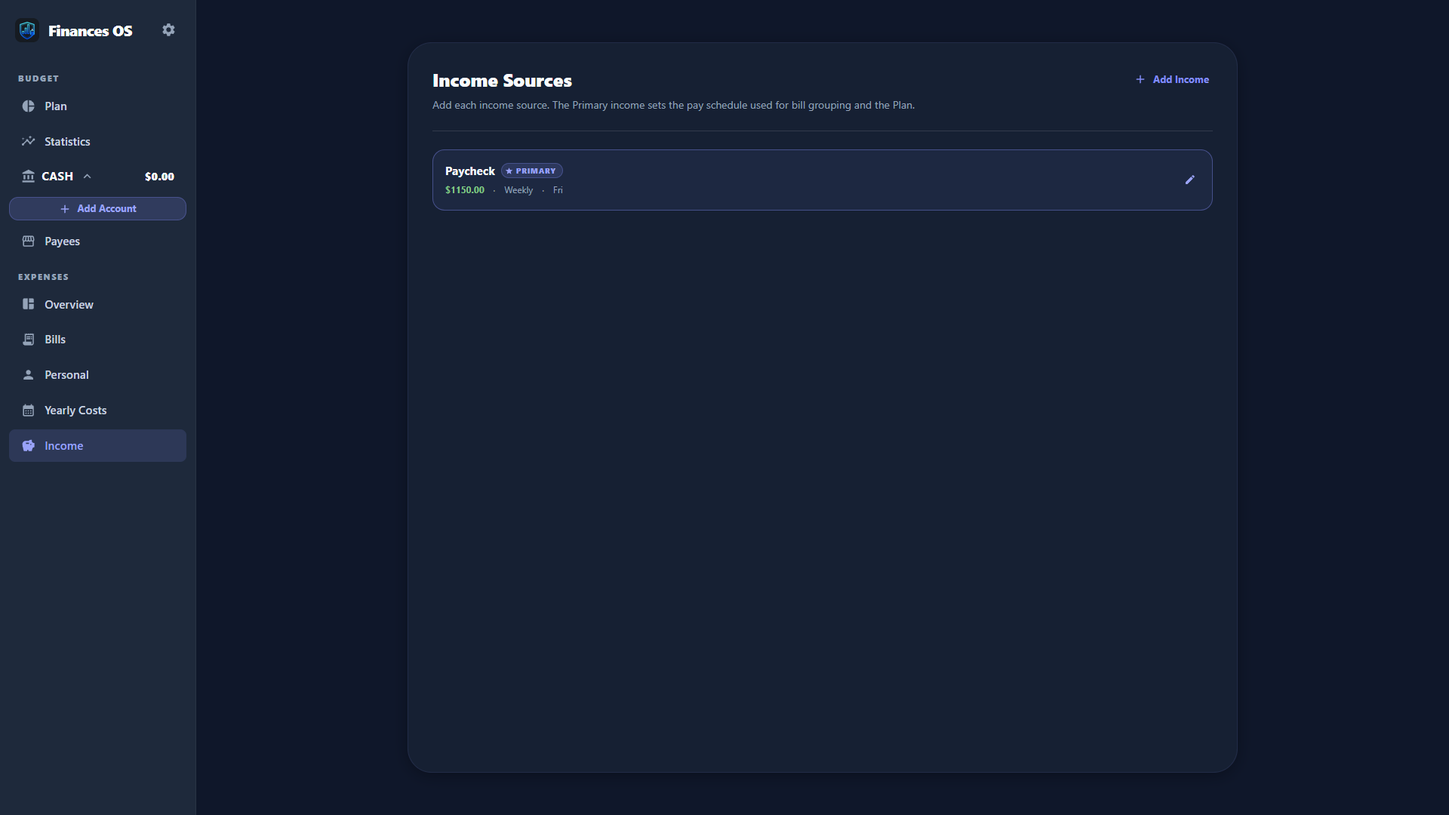
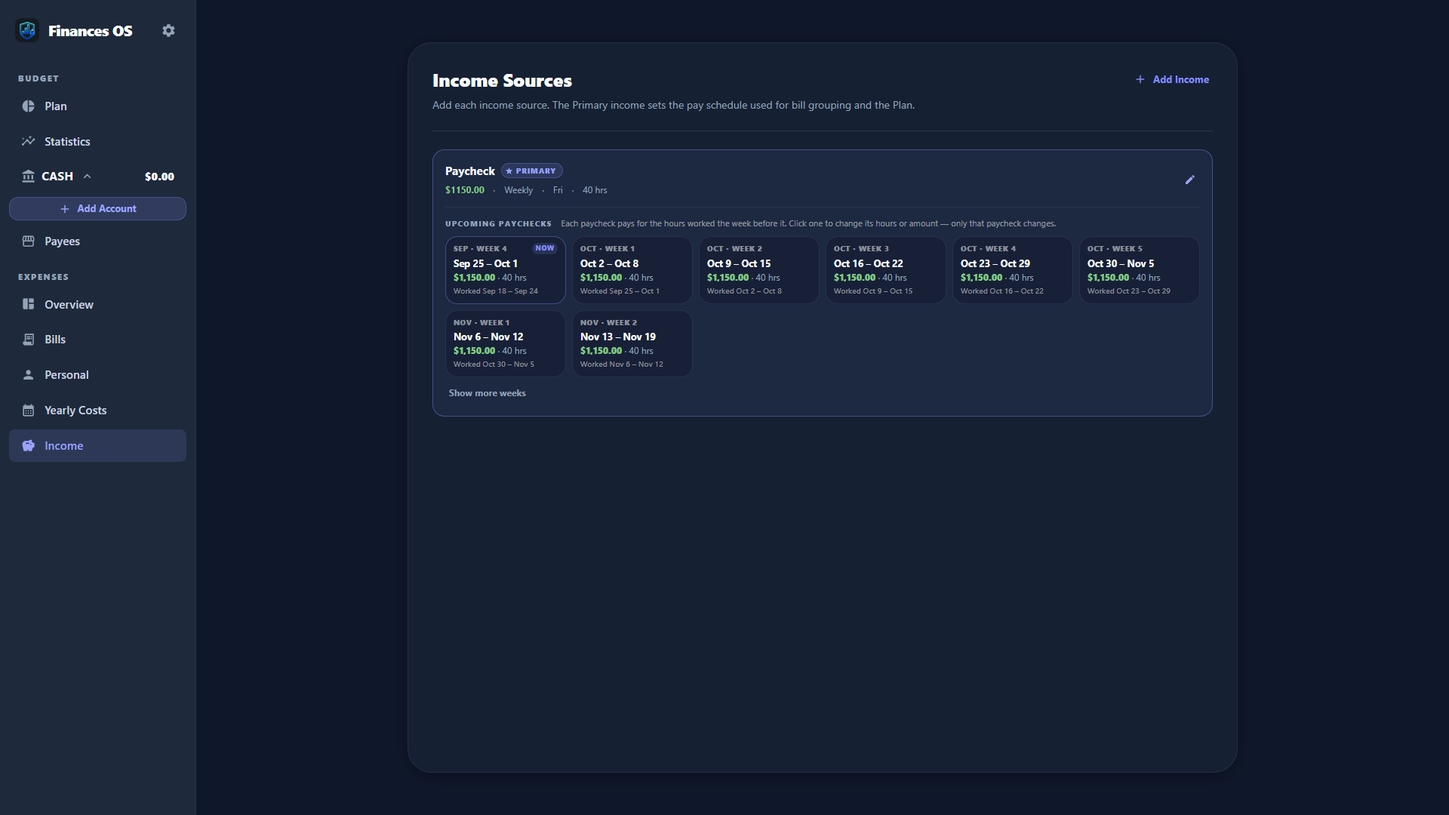
Tour: regenerate for 0.6.0 (a short week, the plan that updates itself)
The picture tour had not been regenerated since Oct 30, before Optimize
became automatic (0.5.0) and before per-week paychecks (0.6.0).

- New step 11, "A short week": Alex sets 32 hours on the Nov 13 paycheck
  (worked Nov 6 - Nov 12). Three pictures: the dialog with the pay-stub
  breakdown, the Income page with that paycheck marked Custom, and
  November's Overview. The income form in step 2 now shows the optional
  pay-stub numbers that make it work.
- Step 6 is "The Overview plans itself". The "before optimizing" picture
  is gone: the app no longer has that state. The sandbox step no longer
  says Alex clicks Optimize.
- A sixth highlight card, "Hours that change"; the Optimize card is
  retitled.
- 14 steps, 30 pictures. Dropping one picture and adding three shifted
  the sequential numbers, so every reference in docs/index.html and the
  README image is updated.

tour.mjs no longer clicks Optimize or waits for the old alert: waitForPlan()
polls the API until the saved baseline matches the current inputs and the
horizon's last month has rows. Everything in the tour is still made up.
No version bump: nothing in the app changed.

diff --git a/docs/index.html b/docs/index.html
@@ -7,7 +7,7 @@
 <meta name="description" content="A step-by-step picture tour of Finances OS: plan every paycheck against every bill, starting from an empty app.">
 <meta property="og:title" content="Finances OS Tour">
 <meta property="og:description" content="Plan every paycheck against every bill. A step-by-step picture tour, from an empty app to a fully planned month.">
-<meta property="og:image" content="img/tour/11-overview-optimized.png">
+<meta property="og:image" content="img/tour/10-overview-optimized.png">
 <link rel="icon" href="img/icon.png">
 <link rel="preconnect" href="https://fonts.googleapis.com">
 <link rel="preconnect" href="https://fonts.gstatic.com" crossorigin>
@@ -183,7 +183,7 @@
     <a class="btn ghost" href="https://github.com/DeweyHammers/finances-os">View on GitHub</a>
   </div>
   <div class="hero-shot">
-    <img src="img/tour/11-overview-optimized.png" alt="The Overview page: five pay weeks, each with income, expenses and the surplus left over." width="1920" height="1080">
+    <img src="img/tour/10-overview-optimized.png" alt="The Overview page: five pay weeks, each with income, expenses and the surplus left over." width="1920" height="1080">
   </div>
 </header>
 
@@ -195,13 +195,18 @@
   </div>
   <div class="feature">
     <div class="icon-tile" style="--c: var(--rose)"><svg viewBox="0 0 24 24" fill="currentColor"><path d="M7.5 5.6 10 7 8.6 4.5 10 2 7.5 3.4 5 2l1.4 2.5L5 7zm12 9.8L17 14l1.4 2.5L17 19l2.5-1.4L22 19l-1.4-2.5L22 14zM22 2l-2.5 1.4L17 2l1.4 2.5L17 7l2.5-1.4L22 7l-1.4-2.5zm-7.63 5.29a1 1 0 0 0-1.41 0L1.29 18.96a1 1 0 0 0 0 1.41l2.34 2.34a1 1 0 0 0 1.41 0L16.7 11.05a1 1 0 0 0 0-1.41zm-1.03 5.49-2.12-2.12 2.44-2.44 2.12 2.12z"/></svg></div>
-    <h3>One-click Optimize</h3>
-    <p>Big bills get split across several paychecks so no single week gets crushed, and every week stays above your surplus target.</p>
+    <h3>A plan that updates itself</h3>
+    <p>Big bills get split across several paychecks so no single week gets crushed, and every week stays above your surplus target. Change anything and the plan is rebuilt for you.</p>
+  </div>
+  <div class="feature">
+    <div class="icon-tile" style="--c: var(--sky)"><svg viewBox="0 0 24 24" fill="currentColor"><path d="M11.99 2C6.47 2 2 6.48 2 12s4.47 10 9.99 10C17.52 22 22 17.52 22 12S17.52 2 11.99 2M12 20c-4.42 0-8-3.58-8-8s3.58-8 8-8 8 3.58 8 8-3.58 8-8 8m.5-13H11v6l5.25 3.15.75-1.23-4.5-2.67z"/></svg></div>
+    <h3>Hours that change</h3>
+    <p>A short week coming up? Set that one paycheck by its hours. The app works out the take-home like a pay stub and re-plans only that week.</p>
   </div>
   <div class="feature">
     <div class="icon-tile" style="--c: var(--amber)"><svg viewBox="0 0 24 24" fill="currentColor"><path d="M13 11.33 18 18H6l5-6.67V6h2m2.96-2H8.04c-.42 0-.65.48-.39.81L9 6.5v4.17L3.2 18.4c-.49.66-.02 1.6.8 1.6h16c.82 0 1.29-.94.8-1.6L15 10.67V6.5l1.35-1.69c.26-.33.03-.81-.39-.81"/></svg></div>
     <h3>Try it in a sandbox</h3>
-    <p>Wondering what cancelling a bill would do? Switch to a copy of your data, change anything, re-optimize, then keep it or throw it away.</p>
+    <p>Wondering what cancelling a bill would do? Switch to a copy of your data, change anything, see the new plan, then keep it or throw it away.</p>
   </div>
   <div class="feature">
     <div class="icon-tile" style="--c: var(--green)"><svg viewBox="0 0 24 24" fill="currentColor"><path d="M11 2v20c-5.07-.5-9-4.79-9-10s3.93-9.5 9-10m2.03 0v8.99H22c-.47-4.74-4.24-8.52-8.97-8.99m0 11.01V22c4.74-.47 8.5-4.25 8.97-8.99z"/></svg></div>
@@ -209,7 +214,7 @@
     <p>Give every dollar a job. Auto-assign funds each bill and allowance with exactly what this payday owes it.</p>
   </div>
   <div class="feature">
-    <div class="icon-tile" style="--c: var(--sky)"><svg viewBox="0 0 24 24" fill="currentColor"><path d="m16 6 2.29 2.29-4.88 4.88-4-4L2 16.59 3.41 18l6-6 4 4 6.3-6.29L22 12V6z"/></svg></div>
+    <div class="icon-tile" style="--c: var(--indigo)"><svg viewBox="0 0 24 24" fill="currentColor"><path d="m16 6 2.29 2.29-4.88 4.88-4-4L2 16.59 3.41 18l6-6 4 4 6.3-6.29L22 12V6z"/></svg></div>
     <h3>Private by design</h3>
     <p>Runs on your computer with a local database. No account, no bank logins, and no cloud unless you turn on sync with a database you own.</p>
   </div>
@@ -224,11 +229,12 @@
       <li><a href="#bills">Add your bills</a></li>
       <li><a href="#personal">Everyday spending</a></li>
       <li><a href="#yearly">Yearly costs</a></li>
-      <li><a href="#optimize">Overview &amp; Optimize</a></li>
+      <li><a href="#optimize">The Overview plans itself</a></li>
       <li><a href="#account">Add your bank account</a></li>
       <li><a href="#plan">Build your Plan</a></li>
       <li><a href="#payday">Payday: Auto-assign</a></li>
       <li><a href="#spend">Track your spending</a></li>
+      <li><a href="#hours">A short week</a></li>
       <li><a href="#sandbox">What if? Try a sandbox</a></li>
       <li><a href="#stats">Look back</a></li>
       <li><a href="#sync">Sync across devices</a></li>
@@ -242,6 +248,7 @@
       <p>Alex starts the app for the first time on <strong>Thursday, October 1st</strong>. Payday is every Friday.</p>
       <div class="persona">
         <span class="chip">💵 $1,150 every Friday</span>
+        <span class="chip">⏱ 40 hours, most weeks</span>
         <span class="chip">🧾 8 monthly bills · $2,104</span>
         <span class="chip">🛒 4 everyday expenses</span>
         <span class="chip">🐷 $100/week to savings</span>
@@ -265,10 +272,11 @@
     <section class="step" id="income" style="--c: var(--green)">
       <div class="step-head"><div class="num">02</div><div><h2>Add your income</h2><p class="where">Income → Add Your First Income</p></div></div>
       <p>Enter what you take home each paycheck, how often you're paid, and on which day. Alex gets <strong>$1,150 weekly on Fridays</strong>.</p>
+      <p>If your hours change from week to week, also fill in three optional numbers from a regular pay stub: the hours that paycheck is for, the taxes taken out, and any dues that are the same every paycheck. Alex's stub says 40 hours, $210 in taxes and $15 in dues. They come into play in <a href="#hours">step 11</a>.</p>
       <div class="why"><strong>Why it matters:</strong> your paydays build the pay-week grid. October has five Fridays, so Alex's October has five pay weeks, and every bill gets assigned to the paycheck that should cover it.</div>
       <div class="pair">
-        <figure><button data-full="img/tour/02-income-form.png"><img loading="lazy" src="img/tour/02-income-form.png" alt="Add Income form: Paycheck, 1150, Weekly, Friday." width="1920" height="1080"></button><figcaption>Name, amount, cycle and payday.</figcaption></figure>
-        <figure><button data-full="img/tour/03-income-list.png"><img loading="lazy" src="img/tour/03-income-list.png" alt="Income list with one primary paycheck." width="1920" height="1080"></button><figcaption>The first income becomes the Primary schedule.</figcaption></figure>
+        <figure><button data-full="img/tour/02-income-form.png"><img loading="lazy" src="img/tour/02-income-form.png" alt="Add Income form: Paycheck, 1150 take-home, 40 regular hours, 210 taxes, 15 dues, Weekly, Friday." width="1920" height="1080"></button><figcaption>Name, take-home amount, the optional pay-stub numbers, cycle and payday.</figcaption></figure>
+        <figure><button data-full="img/tour/03-income-list.png"><img loading="lazy" src="img/tour/03-income-list.png" alt="Income list with one primary paycheck and its upcoming paychecks underneath." width="1920" height="1080"></button><figcaption>The first income becomes the Primary schedule, with its upcoming paychecks listed underneath.</figcaption></figure>
       </div>
     </section>
 
@@ -304,14 +312,13 @@
 
     <!-- 6 -->
     <section class="step" id="optimize" style="--c: var(--amber)">
-      <div class="step-head"><div class="num">06</div><div><h2>Overview &amp; Optimize</h2><p class="where">Overview → Optimize Now</p></div></div>
-      <p>The Overview now shows October as five pay weeks: income, expenses and the surplus left in each. Before optimizing, every bill sits in the week it's due. November's $1,400 rent lands in Pay Week 5, leaving Alex <strong>$595 short</strong> that week.</p>
-      <figure><button data-full="img/tour/10-overview-before-optimize.png"><img loading="lazy" src="img/tour/10-overview-before-optimize.png" alt="Overview before optimizing: Pay Week 5 shows a negative surplus of 595 dollars." width="1920" height="1080"></button><figcaption>Before: week 5 goes negative, and the app suggests re-optimizing.</figcaption></figure>
-      <p>One click on <strong>Optimize</strong> spreads big bills across earlier paychecks and plans the next three years. Rent is now saved a little each week, and every week clears the $300 surplus target. That $300 a week is just the default: change it any time under <em>Settings &rarr; Budget</em>; the Overview shows the current target next to the pay weeks.</p>
+      <div class="step-head"><div class="num">06</div><div><h2>The Overview plans itself</h2><p class="where">Overview</p></div></div>
+      <p>The Overview now shows October as five pay weeks: income, expenses and the surplus left in each. Left in the week it's due, November's $1,400 rent would land on a single paycheck and sink that week. So the app plans ahead <strong>by itself</strong>: every time you add or change a bill, an expense or your income, it spreads the big bills across earlier paychecks and re-plans the next three years. There is nothing to click.</p>
+      <p>Rent is saved a little each week, and every week clears the $300 surplus target. That $300 a week is just the default: change it any time under <em>Settings &rarr; Budget</em>; the Overview shows the current target next to the pay weeks. The <strong>Optimize</strong> button is still there if you ever want to run the plan again by hand.</p>
       <div class="why"><strong>Why it matters:</strong> you see a bad week coming weeks ahead, and the fix is already planned. Split cards show how much of a bill has been saved so far.</div>
       <div class="pair">
-        <figure><button data-full="img/tour/11-overview-optimized.png"><img loading="lazy" src="img/tour/11-overview-optimized.png" alt="Overview after optimizing: every pay week has a positive surplus." width="1920" height="1080"></button><figcaption>After: $369 left over in four weeks, $463 in the fifth.</figcaption></figure>
-        <figure><button data-full="img/tour/12-overview-bills.png"><img loading="lazy" src="img/tour/12-overview-bills.png" alt="Bills and Personal cards per pay week, with rent split across weeks." width="1920" height="1080"></button><figcaption>Bill and allowance cards, week by week.</figcaption></figure>
+        <figure><button data-full="img/tour/10-overview-optimized.png"><img loading="lazy" src="img/tour/10-overview-optimized.png" alt="The Overview with the plan in place: every pay week has a positive surplus." width="1920" height="1080"></button><figcaption>$369 left over in four weeks, $463 in the fifth.</figcaption></figure>
+        <figure><button data-full="img/tour/11-overview-bills.png"><img loading="lazy" src="img/tour/11-overview-bills.png" alt="Bills and Personal cards per pay week, with rent split across weeks." width="1920" height="1080"></button><figcaption>Bill and allowance cards, week by week.</figcaption></figure>
       </div>
     </section>
 
@@ -320,7 +327,7 @@
       <div class="step-head"><div class="num">07</div><div><h2>Add your bank account</h2><p class="where">Sidebar → Cash → Add Account</p></div></div>
       <p>Add a checking account with its current balance. Alex starts with $1,800. Balances are always calculated from the transactions, so they never drift.</p>
       <div class="why"><strong>Why it matters:</strong> your real money is what the Plan hands out. The starting balance becomes your first “Ready to Assign” dollars.</div>
-      <figure><button data-full="img/tour/13-account-form.png"><img loading="lazy" src="img/tour/13-account-form.png" alt="Add Account form: Checking with a starting balance of 1800." width="1920" height="1080"></button><figcaption>Checking, $1,800.</figcaption></figure>
+      <figure><button data-full="img/tour/12-account-form.png"><img loading="lazy" src="img/tour/12-account-form.png" alt="Add Account form: Checking with a starting balance of 1800." width="1920" height="1080"></button><figcaption>Checking, $1,800.</figcaption></figure>
     </section>
 
     <!-- 8 -->
@@ -329,8 +336,8 @@
       <p>The Plan is a zero-based budget: every dollar gets a job. Create groups (Alex uses <em>Bills</em>, <em>Everyday</em> and <em>Goals</em>) and fill them with your bills and personal expenses, including Alex's $100-a-week Savings.</p>
       <div class="why"><strong>Why it matters:</strong> items linked to your bills and allowances know their own amounts and schedules, so the Plan can fund them for you on payday.</div>
       <div class="pair">
-        <figure><button data-full="img/tour/14-plan-group-form.png"><img loading="lazy" src="img/tour/14-plan-group-form.png" alt="Add Group form with the name Bills." width="1920" height="1080"></button><figcaption>Creating the first group.</figcaption></figure>
-        <figure><button data-full="img/tour/15-plan-empty-envelopes.png"><img loading="lazy" src="img/tour/15-plan-empty-envelopes.png" alt="Plan with three groups of unfunded items and 1800 dollars ready to assign." width="1920" height="1080"></button><figcaption>Three groups, $1,800 ready to assign.</figcaption></figure>
+        <figure><button data-full="img/tour/13-plan-group-form.png"><img loading="lazy" src="img/tour/13-plan-group-form.png" alt="Add Group form with the name Bills." width="1920" height="1080"></button><figcaption>Creating the first group.</figcaption></figure>
+        <figure><button data-full="img/tour/14-plan-empty-envelopes.png"><img loading="lazy" src="img/tour/14-plan-empty-envelopes.png" alt="Plan with three groups of unfunded items and 1800 dollars ready to assign." width="1920" height="1080"></button><figcaption>Three groups, $1,800 ready to assign.</figcaption></figure>
       </div>
     </section>
 
@@ -340,12 +347,12 @@
       <p>Friday, October 2nd: payday. Alex records the paycheck in <strong>Cash → Checking → Add Transaction</strong>: an inflow for the paycheck amount, the memo <code>Income</code>, and no category. That lands the money in Ready to Assign, and the memo is what tells the app a paycheck has arrived. Then, in the Plan, <strong>Assign → Auto</strong> funds this pay week in one click: each allowance gets its weekly amount, and each bill gets exactly the slice the Optimize schedule set for this week.</p>
       <div class="why"><strong>Why it matters:</strong> no math on payday. The Plan and the Overview always agree, and an amber ⚠ appears if an item ever drifts from the schedule.</div>
       <div class="pair">
-        <figure><button data-full="img/tour/16-paycheck-form.png"><img loading="lazy" src="img/tour/16-paycheck-form.png" alt="New Transaction form in the checking account: Employer Payroll, memo Income, no category, inflow 1150." width="1920" height="1080"></button><figcaption>Recording the paycheck: inflow, memo “Income”, no category.</figcaption></figure>
-        <figure><button data-full="img/tour/17-plan-payday.png"><img loading="lazy" src="img/tour/17-plan-payday.png" alt="Plan on payday with the new paycheck ready to assign." width="1920" height="1080"></button><figcaption>The paycheck lands in Ready to Assign.</figcaption></figure>
+        <figure><button data-full="img/tour/15-paycheck-form.png"><img loading="lazy" src="img/tour/15-paycheck-form.png" alt="New Transaction form in the checking account: Employer Payroll, memo Income, no category, inflow 1150." width="1920" height="1080"></button><figcaption>Recording the paycheck: inflow, memo “Income”, no category.</figcaption></figure>
+        <figure><button data-full="img/tour/16-plan-payday.png"><img loading="lazy" src="img/tour/16-plan-payday.png" alt="Plan on payday with the new paycheck ready to assign." width="1920" height="1080"></button><figcaption>The paycheck lands in Ready to Assign.</figcaption></figure>
       </div>
       <div class="pair">
-        <figure><button data-full="img/tour/18-plan-auto-assign.png"><img loading="lazy" src="img/tour/18-plan-auto-assign.png" alt="Assign popover on the Auto tab showing the current pay week." width="1920" height="1080"></button><figcaption>Auto-assign for the current pay week.</figcaption></figure>
-        <figure><button data-full="img/tour/19-plan-funded.png"><img loading="lazy" src="img/tour/19-plan-funded.png" alt="Plan after auto-assign with items funded." width="1920" height="1080"></button><figcaption>Every item funded for this week.</figcaption></figure>
+        <figure><button data-full="img/tour/17-plan-auto-assign.png"><img loading="lazy" src="img/tour/17-plan-auto-assign.png" alt="Assign popover on the Auto tab showing the current pay week." width="1920" height="1080"></button><figcaption>Auto-assign for the current pay week.</figcaption></figure>
+        <figure><button data-full="img/tour/18-plan-funded.png"><img loading="lazy" src="img/tour/18-plan-funded.png" alt="Plan after auto-assign with items funded." width="1920" height="1080"></button><figcaption>Every item funded for this week.</figcaption></figure>
       </div>
     </section>
 
@@ -355,44 +362,57 @@
       <p>Through October, Alex logs purchases and bill payments in the checking ledger, each one tagged with a Plan item. Every Friday: record the paycheck, then click Auto.</p>
       <div class="why"><strong>Why it matters:</strong> each item's <em>Available</em> balance shows what's really left in that envelope, so overspending shows up the same day, not at the end of the month.</div>
       <div class="pair">
-        <figure><button data-full="img/tour/21-cash-ledger.png"><img loading="lazy" src="img/tour/21-cash-ledger.png" alt="Checking account ledger with October transactions." width="1920" height="1080"></button><figcaption>The checking ledger at month end.</figcaption></figure>
-        <figure><button data-full="img/tour/20-plan-month-end.png"><img loading="lazy" src="img/tour/20-plan-month-end.png" alt="Plan at the end of October showing activity and available balances." width="1920" height="1080"></button><figcaption>The Plan after five paydays.</figcaption></figure>
+        <figure><button data-full="img/tour/20-cash-ledger.png"><img loading="lazy" src="img/tour/20-cash-ledger.png" alt="Checking account ledger with October transactions." width="1920" height="1080"></button><figcaption>The checking ledger at month end.</figcaption></figure>
+        <figure><button data-full="img/tour/19-plan-month-end.png"><img loading="lazy" src="img/tour/19-plan-month-end.png" alt="Plan at the end of October showing activity and available balances." width="1920" height="1080"></button><figcaption>The Plan after five paydays.</figcaption></figure>
       </div>
     </section>
 
     <!-- 11 -->
-    <section class="step" id="sandbox" style="--c: var(--amber)">
-      <div class="step-head"><div class="num">11</div><div><h2>What if? Try a sandbox</h2><p class="where">Settings → Data → Try a sandbox</p></div></div>
-      <p>At the end of the month Alex wonders: what would next month look like without the gym? <strong>Try a sandbox</strong> (under Settings &rarr; Data) switches the whole app onto a <em>copy</em> of the data. An amber banner stays on every page while it's active. Alex deletes the gym membership, clicks Optimize, and flips to November to see the result, all without touching the real numbers.</p>
-      <p>When you're done, <strong>Discard</strong> throws the copy away and the app goes straight back to your real data. If you like what you see, <strong>Keep</strong> makes it real instead (a backup of the old data is saved first). Closing the app always discards the sandbox.</p>
-      <div class="why"><strong>Why it matters:</strong> you can test a decision before you make it, and a wrong experiment costs nothing.</div>
+    <section class="step" id="hours" style="--c: var(--indigo)">
+      <div class="step-head"><div class="num">11</div><div><h2>A short week</h2><p class="where">Income → Upcoming paychecks</p></div></div>
+      <p>Alex's hours aren't always the same. At the end of October next week's schedule comes out: only <strong>32 hours</strong> from November 6th to the 12th. Paychecks run a week behind, so those hours are paid on Friday, November 13th. On the Income page every upcoming paycheck is a tile that says which days it pays for. Alex clicks the one marked <em>Worked Nov 6 – Nov 12</em> and types 32.</p>
+      <p>The app works the paycheck out the way a pay stub does: gross pay and taxes shrink with the hours, the dues stay the same. 32 hours comes to <strong>$917</strong> instead of $1,150. The amount stays editable, so it can be corrected when the real paycheck arrives.</p>
+      <div class="why"><strong>Why it matters:</strong> when your hours move around, one fixed paycheck amount makes the plan wrong every time. Only that one paycheck changes, and the plan for November is rebuilt around it by itself: the shortfall is spread over several weeks instead of landing on one.</div>
+      <figure><button data-full="img/tour/22-short-week-form.png"><img loading="lazy" src="img/tour/22-short-week-form.png" alt="The paycheck dialog for Nov 13: 32 hours worked Nov 6 to Nov 12 gives 1,100 gross, minus 168 taxes and 15 dues, 917 take-home." width="1920" height="1080"></button><figcaption>32 hours: $1,100 gross &minus; $168 taxes &minus; $15 dues = $917.</figcaption></figure>
       <div class="pair">
-        <figure><button data-full="img/tour/23-sandbox-whatif.png"><img loading="lazy" src="img/tour/23-sandbox-whatif.png" alt="Overview in sandbox mode showing November with the gym bill removed, under an amber Sandbox banner." width="1920" height="1080"></button><figcaption>November without the gym, on a copy of the data.</figcaption></figure>
-        <figure><button data-full="img/tour/24-sandbox-discard.png"><img loading="lazy" src="img/tour/24-sandbox-discard.png" alt="Discard the sandbox confirmation dialog." width="1920" height="1080"></button><figcaption>Discard puts everything back the way it was.</figcaption></figure>
+        <figure><button data-full="img/tour/23-income-paychecks.png"><img loading="lazy" src="img/tour/23-income-paychecks.png" alt="Income page with the upcoming paychecks; the Nov 13 to Nov 19 tile is marked Custom at 917 dollars for 32 hours." width="1920" height="1080"></button><figcaption>The Nov 13 paycheck is marked Custom. Every other week is unchanged.</figcaption></figure>
+        <figure><button data-full="img/tour/24-overview-short-week.png"><img loading="lazy" src="img/tour/24-overview-short-week.png" alt="November Overview: Pay Week 2 shows 917 dollars income with 32 hrs under it; the first three weeks each keep about 234 dollars." width="1920" height="1080"></button><figcaption>November: Pay Week 2 shows $917 and &ldquo;32 hrs&rdquo;, and the first three weeks each keep about $234.</figcaption></figure>
       </div>
     </section>
 
     <!-- 12 -->
-    <section class="step" id="stats" style="--c: var(--rose)">
-      <div class="step-head"><div class="num">12</div><div><h2>Look back</h2><p class="where">Statistics · Overview</p></div></div>
-      <p>Statistics breaks spending (and income) down by item and payee, month by month and across the year. Click any bar to jump into that month.</p>
-      <div class="why"><strong>Why it matters:</strong> a plan is only as good as what actually happened. Seeing where October really went makes November's plan better.</div>
+    <section class="step" id="sandbox" style="--c: var(--amber)">
+      <div class="step-head"><div class="num">12</div><div><h2>What if? Try a sandbox</h2><p class="where">Settings → Data → Try a sandbox</p></div></div>
+      <p>At the end of the month Alex wonders: what would next month look like without the gym? <strong>Try a sandbox</strong> (under Settings &rarr; Data) switches the whole app onto a <em>copy</em> of the data. An amber banner stays on every page while it's active. Alex deletes the gym membership and flips to November. The plan has already updated by itself, and the Bills total at the top has dropped from $2,104 to $2,069 a month, all without touching the real numbers.</p>
+      <p>When you're done, <strong>Discard</strong> throws the copy away and the app goes straight back to your real data. If you like what you see, <strong>Keep</strong> makes it real instead (a backup of the old data is saved first). Closing the app always discards the sandbox.</p>
+      <div class="why"><strong>Why it matters:</strong> you can test a decision before you make it, and a wrong experiment costs nothing.</div>
       <div class="pair">
-        <figure><button data-full="img/tour/25-statistics-month.png"><img loading="lazy" src="img/tour/25-statistics-month.png" alt="Statistics month view: donut chart of October spending by item." width="1920" height="1080"></button><figcaption>October, item by item.</figcaption></figure>
-        <figure><button data-full="img/tour/26-statistics-year.png"><img loading="lazy" src="img/tour/26-statistics-year.png" alt="Statistics yearly view: stacked bars by month." width="1920" height="1080"></button><figcaption>The year so far.</figcaption></figure>
+        <figure><button data-full="img/tour/25-sandbox-whatif.png"><img loading="lazy" src="img/tour/25-sandbox-whatif.png" alt="Overview in sandbox mode showing November with the gym bill removed and bills at 2,069 dollars a month, under an amber Sandbox banner." width="1920" height="1080"></button><figcaption>Without the gym, on a copy of the data: bills drop to $2,069 a month.</figcaption></figure>
+        <figure><button data-full="img/tour/26-sandbox-discard.png"><img loading="lazy" src="img/tour/26-sandbox-discard.png" alt="Discard the sandbox confirmation dialog." width="1920" height="1080"></button><figcaption>Discard puts everything back the way it was.</figcaption></figure>
       </div>
-      <figure><button data-full="img/tour/22-overview-month-end.png"><img loading="lazy" src="img/tour/22-overview-month-end.png" alt="Overview at month end, with past pay weeks locked." width="1920" height="1080"></button><figcaption>The Overview on October 30th, with the current pay week marked NOW. Weeks that have started are locked, so re-optimizing never rewrites money that's already been handed out.</figcaption></figure>
     </section>
 
     <!-- 13 -->
+    <section class="step" id="stats" style="--c: var(--rose)">
+      <div class="step-head"><div class="num">13</div><div><h2>Look back</h2><p class="where">Statistics · Overview</p></div></div>
+      <p>Statistics breaks spending (and income) down by item and payee, month by month and across the year. Click any bar to jump into that month.</p>
+      <div class="why"><strong>Why it matters:</strong> a plan is only as good as what actually happened. Seeing where October really went makes November's plan better.</div>
+      <div class="pair">
+        <figure><button data-full="img/tour/27-statistics-month.png"><img loading="lazy" src="img/tour/27-statistics-month.png" alt="Statistics month view: donut chart of October spending by item." width="1920" height="1080"></button><figcaption>October, item by item.</figcaption></figure>
+        <figure><button data-full="img/tour/28-statistics-year.png"><img loading="lazy" src="img/tour/28-statistics-year.png" alt="Statistics yearly view: stacked bars by month." width="1920" height="1080"></button><figcaption>The year so far.</figcaption></figure>
+      </div>
+      <figure><button data-full="img/tour/21-overview-month-end.png"><img loading="lazy" src="img/tour/21-overview-month-end.png" alt="Overview at month end, with past pay weeks locked." width="1920" height="1080"></button><figcaption>The Overview on October 30th, with the current pay week marked NOW. Weeks that have started are locked, so re-optimizing never rewrites money that's already been handed out.</figcaption></figure>
+    </section>
+
+    <!-- 14 -->
     <section class="step" id="sync" style="--c: var(--sky)">
-      <div class="step-head"><div class="num">13</div><div><h2>Sync across devices</h2><p class="where">Settings → Phone &amp; sync</p></div></div>
+      <div class="step-head"><div class="num">14</div><div><h2>Sync across devices</h2><p class="where">Settings → Phone &amp; sync</p></div></div>
       <p>Finances OS is local by default: everything lives in one database file on your PC. Sync is optional and <strong>bring-your-own</strong>. Create a free cloud database at <a href="https://turso.tech">Turso</a> (hosted SQLite, the same engine the app uses), paste its URL and a token into <strong>Settings &rarr; Phone &amp; sync</strong>, and click <strong>Connect</strong>. Your data is uploaded once; from then on every change is saved on the PC at once and sent to the cloud a few seconds later. Offline, you keep working as usual and the changes go out when the cloud is back.</p>
       <p>A status line at the bottom of the sidebar says where things stand: a green <strong>Synced</strong> dot; amber while syncing, or offline with the number of changes waiting; and red only if another device changed the cloud while this PC still had changes to send. Nothing is ever merged behind your back: the app asks which side to keep and backs the other up first. <strong>Export</strong> gives you a plain SQLite file any time, and <strong>Forget this device</strong> turns the PC back into a local-only install with the data it has.</p>
       <div class="why"><strong>Why it matters:</strong> nobody but you holds your data, and the app sends nothing anywhere unless you set this up. The token is stored encrypted on your PC and never inside the database.</div>
       <div class="pair">
-        <figure><button data-full="img/tour/27-sync-settings.png"><img loading="lazy" src="img/tour/27-sync-settings.png" alt="Settings, Phone and sync tab: a database URL and a token pasted in, ready to connect." width="1920" height="1080"></button><figcaption>Two values from Turso, pasted into Settings.</figcaption></figure>
-        <figure><button data-full="img/tour/28-sync-status.png"><img loading="lazy" src="img/tour/28-sync-status.png" alt="The Overview with a green Synced status line at the bottom of the sidebar." width="1920" height="1080"></button><figcaption>Synced: the status at the bottom of the sidebar.</figcaption></figure>
+        <figure><button data-full="img/tour/29-sync-settings.png"><img loading="lazy" src="img/tour/29-sync-settings.png" alt="Settings, Phone and sync tab: a database URL and a token pasted in, ready to connect." width="1920" height="1080"></button><figcaption>Two values from Turso, pasted into Settings.</figcaption></figure>
+        <figure><button data-full="img/tour/30-sync-status.png"><img loading="lazy" src="img/tour/30-sync-status.png" alt="The Overview with a green Synced status line at the bottom of the sidebar." width="1920" height="1080"></button><figcaption>Synced: the status at the bottom of the sidebar.</figcaption></figure>
       </div>
       <p>📱 <strong>Phone app: coming soon.</strong> The next feature is an Android app that connects to the same cloud database with the same two values, so you can check the budget and add transactions from anywhere while the PC is off.</p>
     </section>

diff --git a/CLAUDE.md b/CLAUDE.md
@@ -45,7 +45,7 @@ npx prisma generate  # Only for the Prisma-client scripts (prisma/seed.ts, scrip
 
 ## Demo tour (docs/ → GitHub Pages)
 
-`docs/index.html` is a public step-by-step picture tour (served by GitHub Pages from `main` → `/docs`; the README links to it). With no installer to download it is the whole public face of the app: it ends with a "Sync across devices" step (two pictures) and a "phone app coming soon" note. Its screenshots in `docs/img/tour/` are generated, never hand-made:
+`docs/index.html` is a public step-by-step picture tour (served by GitHub Pages from `main` → `/docs`; the README links to it). With no installer to download it is the whole public face of the app: it has 14 steps, among them "The Overview plans itself", "A short week" (per-week paychecks) and, last, "Sync across devices" (two pictures) with a "phone app coming soon" note. Its screenshots in `docs/img/tour/` are generated, never hand-made:
 
 ```
 node scripts/demo/create-db.mjs            # (re)build an EMPTY prisma/demo/demo.db from the schema (resets in place)
@@ -60,6 +60,9 @@ node scripts/demo/tour.mjs                 # fills the app with FAKE data step b
 - **Sync step (Oct 30 2026).** `tour.mjs` types a fictional Turso URL + token into Settings → Phone & sync for the first picture (not submitted), then connects for real through the API to the sync mock (`tests/helpers/libsql-sync-server-child.ts --port 18081`, spawned by the tour itself, killed with `taskkill /T` at the end) and shoots the Overview with the green "Synced" line at the bottom of the sider. It runs "Forget this device" at the start (a run that died mid-step would leave the API on a copy of a cloud that no longer exists) and in its `finally`. No Turso account is involved and no mock URL appears in a picture.
 - `cdp.mjs` drives headless Chrome/Edge with a throwaway profile and a **frozen clock** (`setClock`): the story runs Oct 1–30 2026 with weekly Friday paydays, so the pictures don't depend on today's date. Next's dev overlay is hidden.
 - **All tour data is fictional** ("Alex"). The repo is public: never put real names, amounts, payees or employers in `tour.mjs` or the screenshots. Savings is a weekly *personal* item on purpose (a no-cycle Custom Plan item gets a flat amount per Auto-assign, but the ⚠ badge expects it monthly).
+- **The tour never clicks Optimize (Nov 10 2026, regenerated for 0.6.0).** Optimize is automatic, so rows the script posts to the API are planned by the runner's start-up check on the next page load and UI saves by the write trigger. `waitForPlan()` polls the API until `AppSettings.optimizedInputsSig` equals a replica of `computeInputSignatures` (plain .mjs cannot import `optimize-run.ts`; if the two drift the tour times out loudly — update the replica) and the horizon's last month has rows; `setStoryClock` keeps the script's idea of "today" beside the page's frozen clock. The old "before optimizing" picture is gone: that state no longer exists. **Close any other browser tab on the demo UI before a run** — its own runner would re-plan the demo database on the real clock.
+- **Short-week step (step 11 of 14, 30 pictures).** `PAY_STUB` (40 hours, $210 taxes, $15 dues — made up) is typed into the income form in step 2; on Oct 30 Alex sets 32 hours on the Nov 13 paycheck ("Worked Nov 6 – Nov 12") → $917, with pictures of the dialog, the Income page and November's Overview. The sandbox step follows it, so its November picture carries the short week too; the gym's next payment is Dec 5, so the visible change there is the Bills total ($2,104 → $2,069), which the page quotes.
+- With the installed app running (it owns 5858): `demo-api-5859` + `demo-ui-5859` from `.claude/launch.json`, then `DEMO_API_PORT=5859 node scripts/demo/tour.mjs`. Delete `docs/img/tour/*.png` first when the picture list changes — the numbers are sequential, and `docs/index.html` + `README.md` reference the files by number.
 - Re-run `tour.mjs` after UI changes, and update the numbers quoted in `docs/index.html` if they move.
 
 ## Sandbox mode (Oct 2026)

diff --git a/README.md b/README.md
@@ -2,7 +2,7 @@
 
 <p align="center">
   <a href="https://deweyhammers.github.io/finances-os/">
-    <img src="docs/img/tour/11-overview-optimized.png" alt="Finances OS Overview: five pay weeks with income, expenses and surplus" width="900">
+    <img src="docs/img/tour/10-overview-optimized.png" alt="Finances OS Overview: five pay weeks with income, expenses and surplus" width="900">
   </a>
 </p>
 
